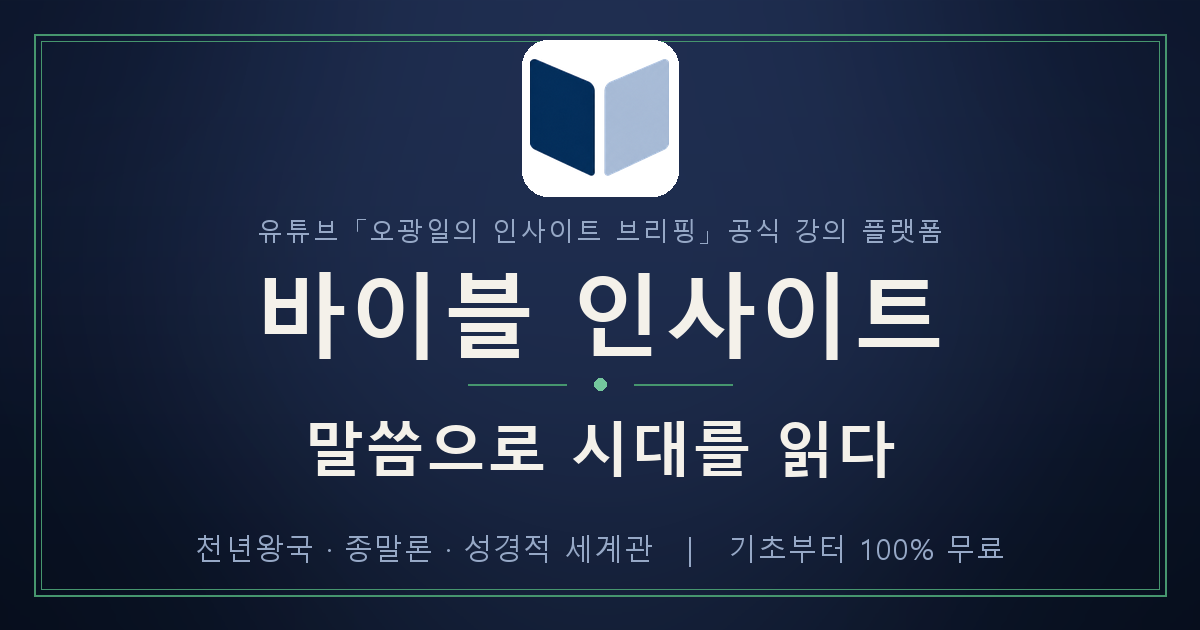
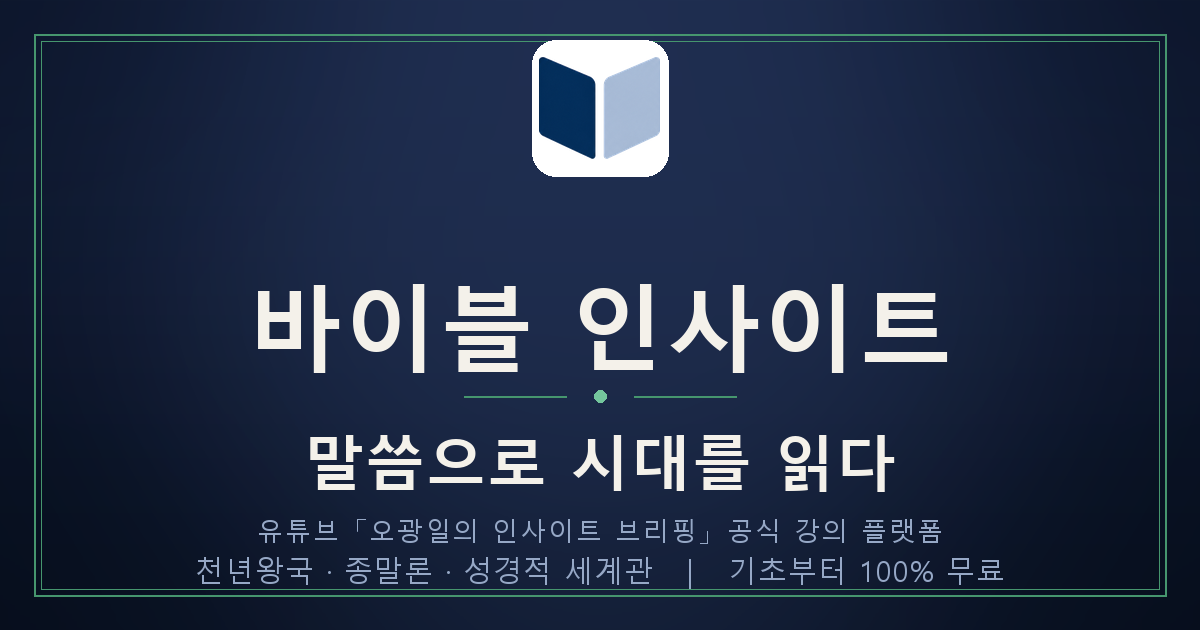
og-cover 로고-워드마크 간격 넉넉하게 재배치 + 하단 소개/키워드 정리 · og ?v=6

diff --git a/support.html b/support.html
@@ -17,11 +17,11 @@
   <meta property="og:title" content="후원 안내 — BIBLY 바이블 인사이트" />
   <meta property="og:description" content="광고·협찬 없이 여러분의 후원으로 이어지는 지금은 무료 공개 사역에 함께해 주세요." />
   <meta property="og:url" content="https://biblynote.com/support" />
-  <meta property="og:image" content="https://biblynote.com/images/og-cover.png?v=5" />
+  <meta property="og:image" content="https://biblynote.com/images/og-cover.png?v=6" />
   <meta name="twitter:card" content="summary_large_image" />
   <meta name="twitter:title" content="후원 안내 — BIBLY 바이블 인사이트" />
   <meta name="twitter:description" content="광고·협찬 없이 여러분의 후원으로 이어지는 지금은 무료 공개 사역에 함께해 주세요." />
-  <meta name="twitter:image" content="https://biblynote.com/images/og-cover.png?v=5" />
+  <meta name="twitter:image" content="https://biblynote.com/images/og-cover.png?v=6" />
   <link rel="apple-touch-icon" sizes="180x180" href="/images/apple-touch-icon.png?v=6" />
   <meta name="description" content="BIBLY 바이블 인사이트 후원 — 모든 강의는 무료입니다. 한 사람의 분별을 세우는 이 사역에 함께해 주세요." />
   <link rel="stylesheet" as="style" crossorigin href="https://cdn.jsdelivr.net/gh/orioncactus/pretendard@v1.3.9/dist/web/static/pretendard.min.css" />

diff --git a/bible.html b/bible.html
@@ -21,11 +21,11 @@
   <meta property="og:title" content="KJV 새번역 — BIBLY 바이블 인사이트" />
   <meta property="og:description" content="KJV 영어 성경과 히브리어·헬라어 원문을 비교 대조해 표준 국어 어법으로 새로 옮긴 한국어 성경. 영어 표현 학습까지." />
   <meta property="og:url" content="https://biblynote.com/bible" />
-  <meta property="og:image" content="https://biblynote.com/images/og-cover.png?v=5" />
+  <meta property="og:image" content="https://biblynote.com/images/og-cover.png?v=6" />
   <meta name="twitter:card" content="summary_large_image" />
   <meta name="twitter:title" content="KJV 새번역 — BIBLY 바이블 인사이트" />
   <meta name="twitter:description" content="KJV 영어 성경과 히브리어·헬라어 원문을 비교 대조해 표준 국어 어법으로 새로 옮긴 한국어 성경. 영어 표현 학습까지." />
-  <meta name="twitter:image" content="https://biblynote.com/images/og-cover.png?v=5" />
+  <meta name="twitter:image" content="https://biblynote.com/images/og-cover.png?v=6" />
   <link rel="stylesheet" as="style" crossorigin href="https://cdn.jsdelivr.net/gh/orioncactus/pretendard@v1.3.9/dist/web/static/pretendard.min.css" />
   <link href="https://fonts.googleapis.com/css2?family=Noto+Serif+KR:wght@500;600;700&display=swap" rel="stylesheet" />
   <script src="https://cdn.tailwindcss.com"></script>

diff --git a/index.html b/index.html
@@ -25,14 +25,14 @@
   <meta property="og:title" content="BIBLY 바이블 인사이트 — 말씀으로 시대를 읽다" />
   <meta property="og:description" content="유튜브 「오광일의 인사이트 브리핑」 공식 강의 플랫폼. 천년왕국·종말론·성경적 세계관을 기초부터 단계별로 — 지금은 무료 공개." />
   <meta property="og:url" content="https://biblynote.com/" />
-  <meta property="og:image" content="https://biblynote.com/images/og-cover.png?v=5" />
+  <meta property="og:image" content="https://biblynote.com/images/og-cover.png?v=6" />
   <meta property="og:image:width" content="1200" />
   <meta property="og:image:height" content="630" />
   <meta property="og:locale" content="ko_KR" />
   <meta name="twitter:card" content="summary_large_image" />
   <meta name="twitter:title" content="BIBLY 바이블 인사이트 — 말씀으로 시대를 읽다" />
   <meta name="twitter:description" content="유튜브 「오광일의 인사이트 브리핑」 공식 강의 플랫폼. 천년왕국·종말론·성경적 세계관을 기초부터 단계별로 — 지금은 무료 공개." />
-  <meta name="twitter:image" content="https://biblynote.com/images/og-cover.png?v=5" />
+  <meta name="twitter:image" content="https://biblynote.com/images/og-cover.png?v=6" />
 
   <!-- 검색 구조화 데이터 (JSON-LD) -->
   <script type="application/ld+json">

diff --git a/community.html b/community.html
@@ -20,11 +20,11 @@
   <meta property="og:title" content="질문·나눔·기도요청 — BIBLY 바이블 인사이트" />
   <meta property="og:description" content="성경·신앙·삶의 질문을 나누고 함께 답을 찾는 커뮤니티 · 자유게시판 · 기도요청." />
   <meta property="og:url" content="https://biblynote.com/community" />
-  <meta property="og:image" content="https://biblynote.com/images/og-cover.png?v=5" />
+  <meta property="og:image" content="https://biblynote.com/images/og-cover.png?v=6" />
   <meta name="twitter:card" content="summary_large_image" />
   <meta name="twitter:title" content="질문·나눔·기도요청 — BIBLY 바이블 인사이트" />
   <meta name="twitter:description" content="성경·신앙·삶의 질문을 나누고 함께 답을 찾는 커뮤니티 · 자유게시판 · 기도요청." />
-  <meta name="twitter:image" content="https://biblynote.com/images/og-cover.png?v=5" />
+  <meta name="twitter:image" content="https://biblynote.com/images/og-cover.png?v=6" />
   <link rel="apple-touch-icon" sizes="180x180" href="/images/apple-touch-icon.png?v=6" />
   <link rel="stylesheet" as="style" crossorigin href="https://cdn.jsdelivr.net/gh/orioncactus/pretendard@v1.3.9/dist/web/static/pretendard.min.css" />
   <link href="https://fonts.googleapis.com/css2?family=Noto+Serif+KR:wght@600;700&display=swap" rel="stylesheet" />

diff --git a/academy.html b/academy.html
@@ -20,11 +20,11 @@
   <meta property="og:title" content="정규 심화 과정 — BIBLY 바이블 인사이트" />
   <meta property="og:description" content="수료증·1:1 질의응답·체계적 커리큘럼으로 끝까지 함께 완주하는 BIBLY 정규 심화 과정. 지금 등록 신청 받습니다." />
   <meta property="og:url" content="https://biblynote.com/academy" />
-  <meta property="og:image" content="https://biblynote.com/images/og-cover.png?v=5" />
+  <meta property="og:image" content="https://biblynote.com/images/og-cover.png?v=6" />
   <meta name="twitter:card" content="summary_large_image" />
   <meta name="twitter:title" content="정규 심화 과정 — BIBLY 바이블 인사이트" />
   <meta name="twitter:description" content="수료증·1:1 질의응답·체계적 커리큘럼으로 끝까지 함께 완주하는 BIBLY 정규 심화 과정. 지금 등록 신청." />
-  <meta name="twitter:image" content="https://biblynote.com/images/og-cover.png?v=5" />
+  <meta name="twitter:image" content="https://biblynote.com/images/og-cover.png?v=6" />
   <link rel="apple-touch-icon" sizes="180x180" href="/images/apple-touch-icon.png?v=6" />
   <link rel="manifest" href="/manifest.json" />
   <link rel="stylesheet" as="style" crossorigin href="https://cdn.jsdelivr.net/gh/orioncactus/pretendard@v1.3.9/dist/web/static/pretendard.min.css" />

diff --git a/request.html b/request.html
@@ -20,11 +20,11 @@
   <meta property="og:title" content="강의 요청·건의함 — BIBLY 바이블 인사이트" />
   <meta property="og:description" content="듣고 싶은 강의를 신청하고, 사이트·강의에 대한 건의·피드백을 남겨주세요." />
   <meta property="og:url" content="https://biblynote.com/request" />
-  <meta property="og:image" content="https://biblynote.com/images/og-cover.png?v=5" />
+  <meta property="og:image" content="https://biblynote.com/images/og-cover.png?v=6" />
   <meta name="twitter:card" content="summary_large_image" />
   <meta name="twitter:title" content="강의 요청·건의함 — BIBLY 바이블 인사이트" />
   <meta name="twitter:description" content="듣고 싶은 강의를 신청하고, 사이트·강의에 대한 건의·피드백을 남겨주세요." />
-  <meta name="twitter:image" content="https://biblynote.com/images/og-cover.png?v=5" />
+  <meta name="twitter:image" content="https://biblynote.com/images/og-cover.png?v=6" />
   <link rel="apple-touch-icon" sizes="180x180" href="/images/apple-touch-icon.png?v=6" />
   <link rel="stylesheet" as="style" crossorigin href="https://cdn.jsdelivr.net/gh/orioncactus/pretendard@v1.3.9/dist/web/static/pretendard.min.css" />
   <link href="https://fonts.googleapis.com/css2?family=Noto+Serif+KR:wght@600;700&display=swap" rel="stylesheet" />

diff --git a/cohort.html b/cohort.html
@@ -19,11 +19,11 @@
   <meta property="og:title" content="기수제 완주반 — 8주면 끝까지 완주" />
   <meta property="og:description" content="주간 1:1 질의응답·워크북·기수 단톡·수료증으로 함께 완주하는 BIBLY 완주반. 1기 사전 신청." />
   <meta property="og:url" content="https://biblynote.com/cohort" />
-  <meta property="og:image" content="https://biblynote.com/images/og-cover.png?v=5" />
+  <meta property="og:image" content="https://biblynote.com/images/og-cover.png?v=6" />
   <meta name="twitter:card" content="summary_large_image" />
   <meta name="twitter:title" content="기수제 완주반 — BIBLY 바이블 인사이트" />
   <meta name="twitter:description" content="8주에 종말론을 끝까지 완주. 강사 1:1 질의응답·워크북·기수 단톡·수료증. 1기 사전 신청." />
-  <meta name="twitter:image" content="https://biblynote.com/images/og-cover.png?v=5" />
+  <meta name="twitter:image" content="https://biblynote.com/images/og-cover.png?v=6" />
   <link rel="apple-touch-icon" sizes="180x180" href="/images/apple-touch-icon.png?v=6" />
   <link rel="manifest" href="/manifest.json" />
   <link rel="stylesheet" as="style" crossorigin href="https://cdn.jsdelivr.net/gh/orioncactus/pretendard@v1.3.9/dist/web/static/pretendard.min.css" />

diff --git a/mylearning.html b/mylearning.html
@@ -20,11 +20,11 @@
   <meta property="og:title" content="내 강의실 — BIBLY 바이블 인사이트" />
   <meta property="og:description" content="수강 신청한 강의의 학습 현황과 진도를 한눈에 확인하세요." />
   <meta property="og:url" content="https://biblynote.com/mylearning" />
-  <meta property="og:image" content="https://biblynote.com/images/og-cover.png?v=5" />
+  <meta property="og:image" content="https://biblynote.com/images/og-cover.png?v=6" />
   <meta name="twitter:card" content="summary_large_image" />
   <meta name="twitter:title" content="내 강의실 — BIBLY 바이블 인사이트" />
   <meta name="twitter:description" content="수강 신청한 강의의 학습 현황과 진도를 한눈에 확인하세요." />
-  <meta name="twitter:image" content="https://biblynote.com/images/og-cover.png?v=5" />
+  <meta name="twitter:image" content="https://biblynote.com/images/og-cover.png?v=6" />
   <link rel="apple-touch-icon" sizes="180x180" href="/images/apple-touch-icon.png?v=6" />
   <link rel="stylesheet" as="style" crossorigin href="https://cdn.jsdelivr.net/gh/orioncactus/pretendard@v1.3.9/dist/web/static/pretendard.min.css" />
   <link href="https://fonts.googleapis.com/css2?family=Noto+Serif+KR:wght@600;700&display=swap" rel="stylesheet" />

diff --git a/gift.html b/gift.html
@@ -19,11 +19,11 @@
   <meta property="og:title" content="선물하기 · 후원 좌석 — 당신의 후원이 한 사람의 배움이 됩니다" />
   <meta property="og:description" content="형편이 어려운 분께 좌석을 기증하거나, 소중한 사람에게 강의·이용권을 선물하세요." />
   <meta property="og:url" content="https://biblynote.com/gift" />
-  <meta property="og:image" content="https://biblynote.com/images/og-cover.png?v=5" />
+  <meta property="og:image" content="https://biblynote.com/images/og-cover.png?v=6" />
   <meta name="twitter:card" content="summary_large_image" />
   <meta name="twitter:title" content="선물하기 · 후원 좌석 — BIBLY" />
   <meta name="twitter:description" content="당신의 후원이 한 사람의 배움이 됩니다. 좌석 기증 · 선물하기." />
-  <meta name="twitter:image" content="https://biblynote.com/images/og-cover.png?v=5" />
+  <meta name="twitter:image" content="https://biblynote.com/images/og-cover.png?v=6" />
   <link rel="apple-touch-icon" sizes="180x180" href="/images/apple-touch-icon.png?v=6" />
   <link rel="manifest" href="/manifest.json" />
   <link rel="stylesheet" as="style" crossorigin href="https://cdn.jsdelivr.net/gh/orioncactus/pretendard@v1.3.9/dist/web/static/pretendard.min.css" />

diff --git a/resources.html b/resources.html
@@ -21,11 +21,11 @@
   <meta property="og:title" content="자료실 — BIBLY 바이블 인사이트" />
   <meta property="og:description" content="암송노트·강의노트·도표 등 강의와 함께 보는 학습 자료실." />
   <meta property="og:url" content="https://biblynote.com/resources" />
-  <meta property="og:image" content="https://biblynote.com/images/og-cover.png?v=5" />
+  <meta property="og:image" content="https://biblynote.com/images/og-cover.png?v=6" />
   <meta name="twitter:card" content="summary_large_image" />
   <meta name="twitter:title" content="자료실 — BIBLY 바이블 인사이트" />
   <meta name="twitter:description" content="암송노트·강의노트·도표 등 강의와 함께 보는 학습 자료실." />
-  <meta name="twitter:image" content="https://biblynote.com/images/og-cover.png?v=5" />
+  <meta name="twitter:image" content="https://biblynote.com/images/og-cover.png?v=6" />
   <link rel="apple-touch-icon" sizes="180x180" href="/images/apple-touch-icon.png?v=6" />
   <link rel="stylesheet" as="style" crossorigin href="https://cdn.jsdelivr.net/gh/orioncactus/pretendard@v1.3.9/dist/web/static/pretendard.min.css" />
   <link href="https://fonts.googleapis.com/css2?family=Noto+Serif+KR:wght@600;700&display=swap" rel="stylesheet" />

diff --git a/store-help.html b/store-help.html
@@ -17,11 +17,11 @@
   <meta property="og:title" content="고객센터 · 주문·배송·반품 안내 — BIBLY 북스토어" />
   <meta property="og:description" content="BIBLY 북스토어 고객센터 — 주문 방법, 결제, 발송·배송, 교환·반품·환불·청약철회 안내." />
   <meta property="og:url" content="https://biblynote.com/store-help" />
-  <meta property="og:image" content="https://biblynote.com/images/og-cover.png?v=5" />
+  <meta property="og:image" content="https://biblynote.com/images/og-cover.png?v=6" />
   <meta name="twitter:card" content="summary_large_image" />
   <meta name="twitter:title" content="고객센터 · BIBLY 북스토어" />
   <meta name="twitter:description" content="주문·결제·배송·교환·반품·환불 안내." />
-  <meta name="twitter:image" content="https://biblynote.com/images/og-cover.png?v=5" />
+  <meta name="twitter:image" content="https://biblynote.com/images/og-cover.png?v=6" />
   <link rel="manifest" href="/manifest.json" />
   <link rel="stylesheet" as="style" crossorigin href="https://cdn.jsdelivr.net/gh/orioncactus/pretendard@v1.3.9/dist/web/static/pretendard.min.css" />
   <link href="https://fonts.googleapis.com/css2?family=Noto+Serif+KR:wght@600;700&display=swap" rel="stylesheet" />

diff --git a/column.html b/column.html
@@ -20,11 +20,11 @@
   <meta property="og:title" content="인사이트 칼럼 — BIBLY 바이블 인사이트" />
   <meta property="og:description" content="오광일이 전하는 성경과 시대를 읽는 칼럼." />
   <meta property="og:url" content="https://biblynote.com/column" />
-  <meta property="og:image" content="https://biblynote.com/images/og-cover.png?v=5" />
+  <meta property="og:image" content="https://biblynote.com/images/og-cover.png?v=6" />
   <meta name="twitter:card" content="summary_large_image" />
   <meta name="twitter:title" content="인사이트 칼럼 — BIBLY 바이블 인사이트" />
   <meta name="twitter:description" content="오광일이 전하는 성경과 시대를 읽는 칼럼." />
-  <meta name="twitter:image" content="https://biblynote.com/images/og-cover.png?v=5" />
+  <meta name="twitter:image" content="https://biblynote.com/images/og-cover.png?v=6" />
   <link rel="apple-touch-icon" sizes="180x180" href="/images/apple-touch-icon.png?v=6" />
   <link rel="stylesheet" as="style" crossorigin href="https://cdn.jsdelivr.net/gh/orioncactus/pretendard@v1.3.9/dist/web/static/pretendard.min.css" />
   <link href="https://fonts.googleapis.com/css2?family=Noto+Serif+KR:wght@600;700&display=swap" rel="stylesheet" />
